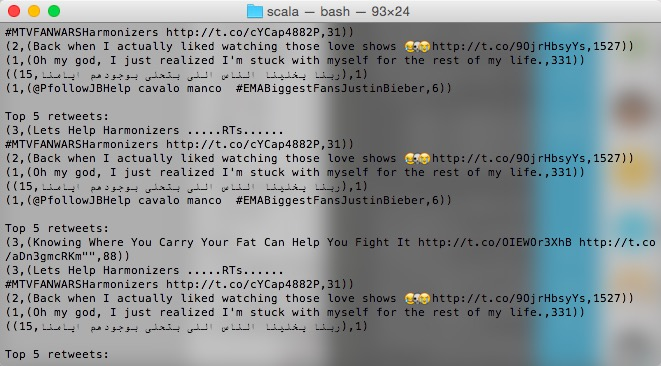
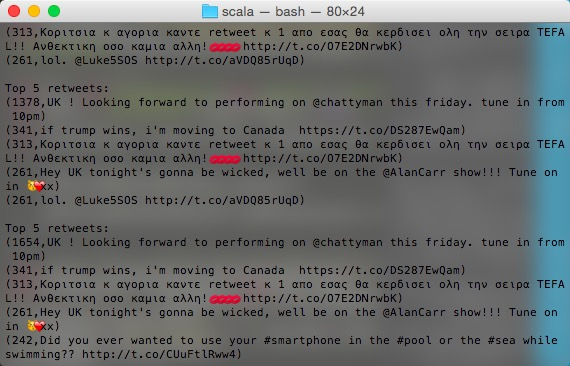
update code

diff --git a/assignment1/exercise2.md b/assignment1/exercise2.md
@@ -79,20 +79,17 @@ val retweetStream = tweets.filter(_.isRetweet).map { status =>
     (
     //get original tweet text
     status.getRetweetedStatus().getText(),
-    //get original tweet retweet count
-    status.getRetweetedStatus().getRetweetCount()
+    //get original tweet retweet count (status.getRetweetedStatus().getRetweetCount(),status.getRetweetedStatus().getRetweetCount())                   
     )
 }
-//count by window and key. 
-val counts = retweetStream.countByValueAndWindow(Seconds(60), Seconds(1))
-//transform the data to key-value pairs, sort by key
-val sortedCounts = counts.map { case(text, count) => (count, text) }.transform(rdd => rdd.sortByKey(false))
-//print results
-sortedCounts.foreach(rdd =>
+val counts = retweetStream.reduceByKeyAndWindow((x:(Long,Long),y:(Long,Long))=>(math.max(x._1,y._1),math.min(x._2,y._2)),Seconds(60), Seconds(1))
+    val sortedCounts = counts.map { case(text, count) => (count._1-count._2, text) }
+                         .transform(rdd => rdd.sortByKey(false))
+    sortedCounts.foreach(rdd =>
         println("\nTop 5 retweets:\n" + rdd.take(5).mkString("\n")))
-ssc.checkpoint(checkpointDir)
-ssc.start()
-ssc.awaitTermination()
+    ssc.checkpoint(checkpointDir)
+    ssc.start()
+    ssc.awaitTermination()
 ```
 
 Result
